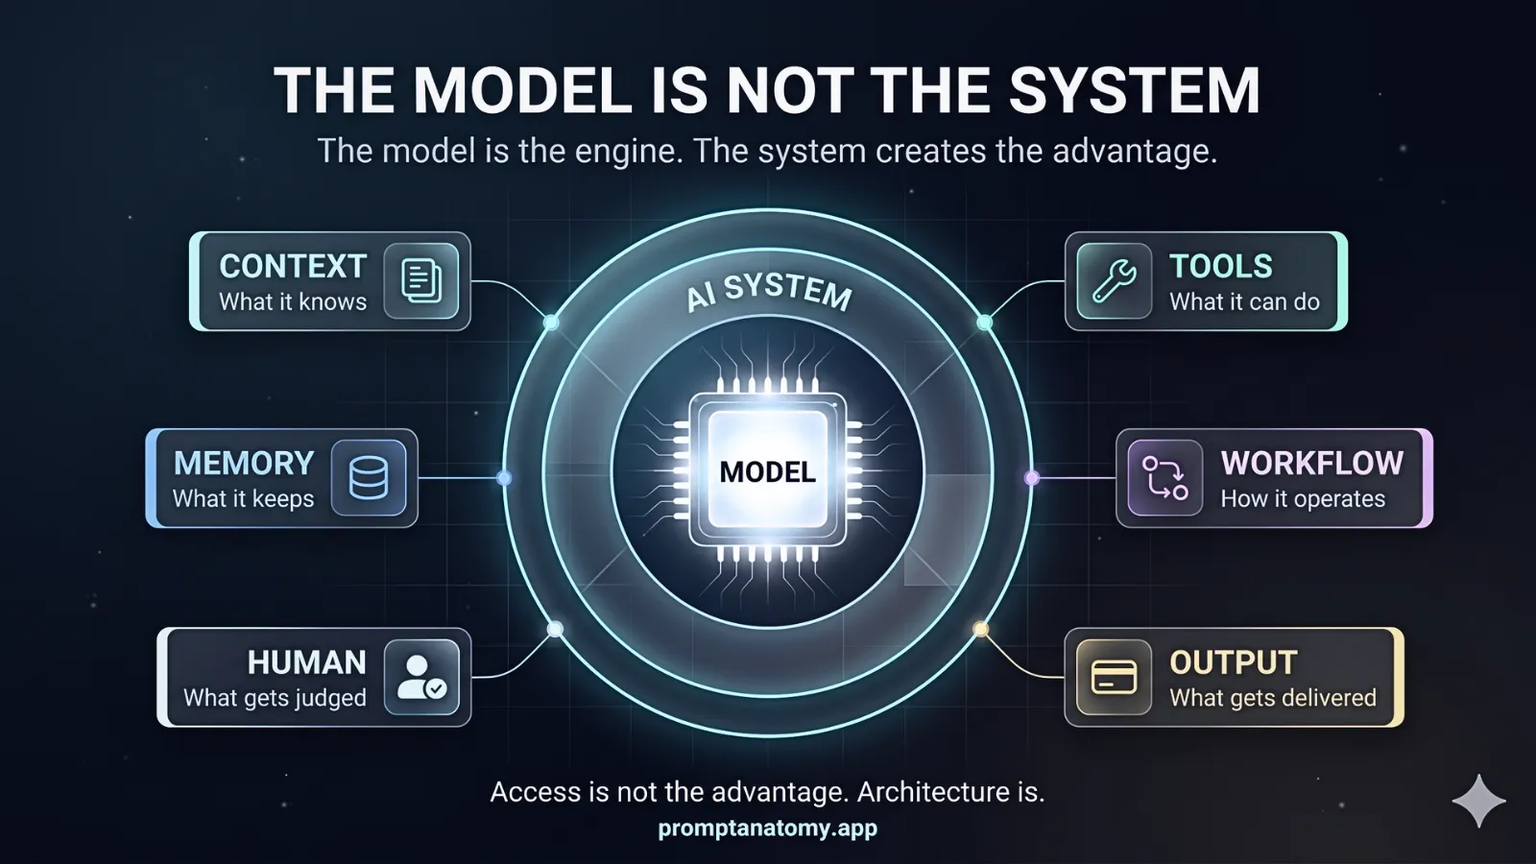
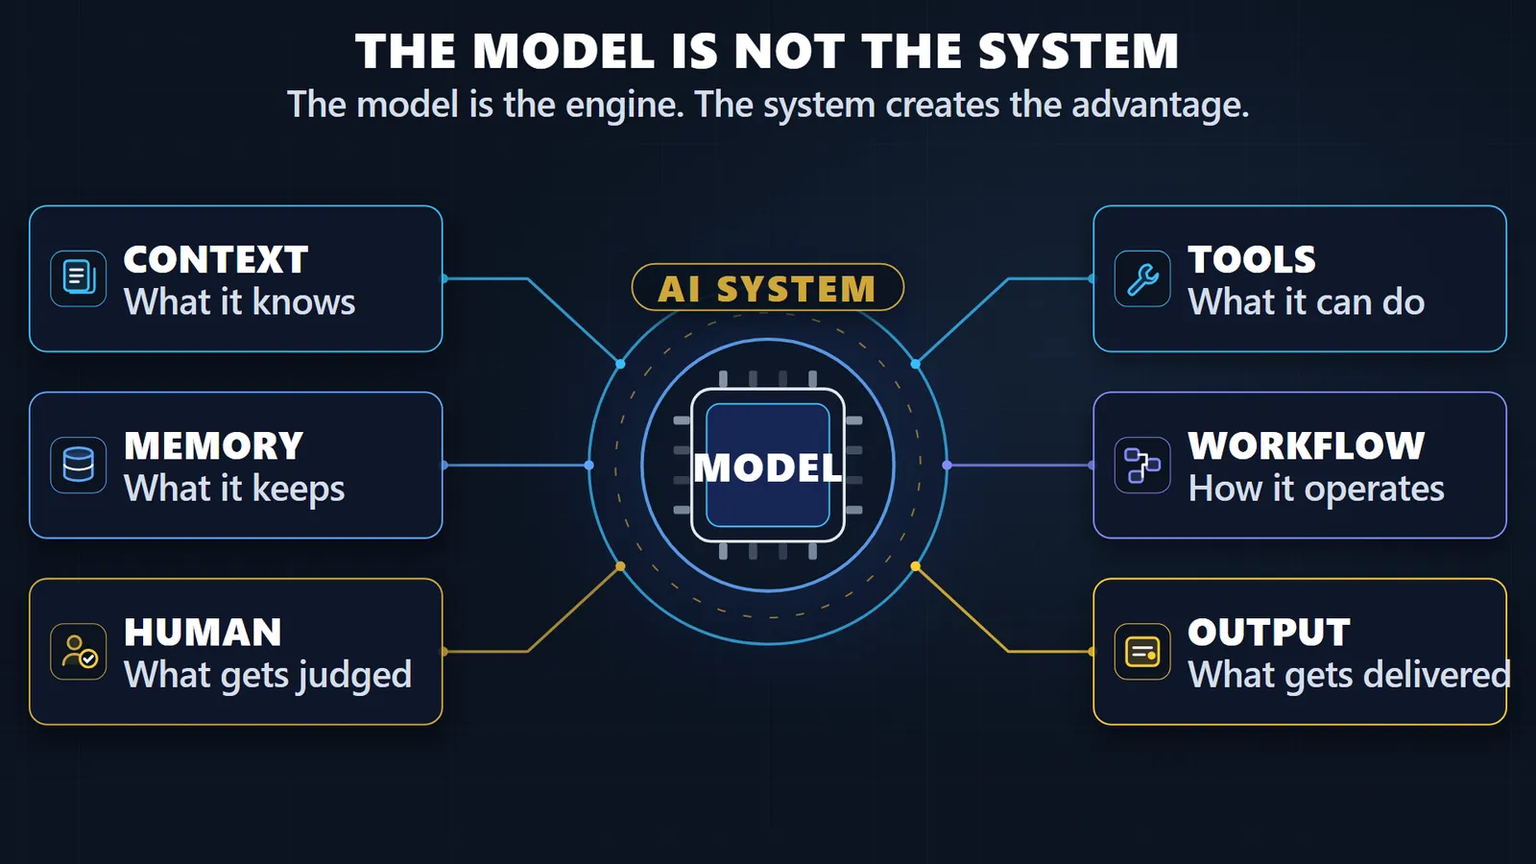
Align the flagship framework with the six boxes around the model so the page, social card, and citation stop teaching the old map.

diff --git a/theme/promptanatomy/templates/partials/style_guide.html b/theme/promptanatomy/templates/partials/style_guide.html
@@ -160,7 +160,7 @@
 
     <div class="grid grid--2 grid--start-here">
 
-      {{ path_card('The Model Is Not the System', 'Teams fail when chat is the product. Map the system around the model—workflow, context, evaluation, and governance.', '#', 1, icon='framework', card_id='sg-path-1') }}
+      {{ path_card('The Model Is Not the System', 'Teams fail when chat is the product. The model is the engine; context, memory, human judgment, tools, workflow, and output create the advantage.', '#', 1, icon='framework', card_id='sg-path-1') }}
 
       {{ path_card('Context Architecture', 'Define what models see, when, and why—with a context spec your team can implement.', '#', 2, icon='framework', card_id='sg-path-2') }}
 
@@ -303,7 +303,7 @@
     {{ section_heading('Featured card', 'Style guide reference for card--featured — not rendered on the homepage (pass 2).', 'sg-featured-card-heading') }}
 
     {% set sg_cat = namespace(name='Framework', url='topics/framework/') %}
-    {% set sg_featured = namespace(title='The Model Is Not the System', summary='Teams fail when chat is the product. This framework maps the system around the model—workflow, context, evaluation, and governance.', url='articles/the-model-is-not-the-system/', hero_image='images/articles/the-model-is-not-the-system/hero.png', category=sg_cat, reading_time='8 min read', date=none, modified=none) %}
+    {% set sg_featured = namespace(title='The Model Is Not the System', summary='Teams fail when chat is the product. The model is the engine; context, memory, human judgment, tools, workflow, and output create the advantage.', url='articles/the-model-is-not-the-system/', hero_image='images/articles/the-model-is-not-the-system/hero.png', category=sg_cat, reading_time='8 min read', date=none, modified=none) %}
 
     <article class="card card--featured">
 

diff --git a/scripts/validate_satori_manifest.py b/scripts/validate_satori_manifest.py
@@ -110,7 +110,7 @@ def _og_source(row: dict) -> str | None:
 
 
 def _is_manual_og_row(row: dict) -> bool:
-    if row.get("manual") is True:
+    if row.get("manual") is True and not row.get("satori_og"):
         return True
     og_src = row.get("og_source")
     if og_src and not str(og_src).replace("\\", "/").startswith("Satori/"):
@@ -148,13 +148,32 @@ def _validate_manual_row(row: dict, errors: list[str], warnings: list[str]) -> N
         warnings.append(
             f"{row_id}: source and og_source share one operator master (intentional)"
         )
-    if "og" in (row.get("usage") or []) and row.get("og_source"):
+    usage = row.get("usage") or []
+    if (
+        row.get("manual")
+        and "og" in usage
+        and not row.get("og_source")
+        and not row.get("satori_og")
+    ):
+        errors.append(
+            f"{row_id}: manual hero with usage og needs og_source or satori_og: true"
+        )
+    if "og" in usage and row.get("og_source"):
         og_master = MASTERS / Path(str(row["og_source"]).replace("\\", "/"))
         if not og_master.is_file():
             errors.append(
                 f"{row_id}: operator OG master not found at "
                 f"data/01_illustrations/{row['og_source']}"
             )
+    if row.get("satori_og") and "og" in usage and row.get("slug"):
+        og_src = _og_source(row)
+        if og_src:
+            og_master = MASTERS / Path(og_src.replace("\\", "/"))
+            if not og_master.is_file():
+                errors.append(
+                    f"{row_id}: OG master not found at data/01_illustrations/{og_src} "
+                    f"(run npm run build:satori)"
+                )
 
 
 def _validate_satori_row(row: dict, errors: list[str]) -> None:
@@ -219,7 +238,7 @@ def main() -> int:
 
     for row in manifest.get("illustrations") or []:
         if row.get("generator") != "satori":
-            if _is_manual_og_row(row):
+            if row.get("manual") or _is_manual_og_row(row):
                 _validate_manual_row(row, errors, warnings)
             elif "og" in (row.get("usage") or []) and row.get("slug"):
                 og_src = _og_source(row)

diff --git a/content/articles/the-model-is-not-the-system.md b/content/articles/the-model-is-not-the-system.md
@@ -5,61 +5,81 @@ category: Framework
 content_tier: pillar
 date: 2024-01-06
 faq:
-- answer: No. The model generates text; durable value comes from workflow, context
-    architecture, evaluation, and governance wrapped around it.
+- answer: No. The model is the engine. The system around it is context, memory,
+    human judgment, tools, workflow, and output.
   question: Is the language model the whole AI system?
-- answer: Teams skip shared context, review gates, and ownership—so outputs are inconsistent,
-    non-reproducible, and hard to audit under real compliance pressure.
+- answer: Teams leave context, memory, the human gate, tools, workflow, or output unnamed,
+    so a draft cannot be reproduced or signed.
   question: Why do chat-only AI pilots fail in operations?
-- answer: Name one workflow with a metric, pair ops with IT for context and evaluation,
-    pause new tool purchases until that workflow is documented, and run a pilot with
-    pass/fail criteria.
+- answer: Name one workflow with a metric, pair ops with IT so context, memory,
+    tools, and the human gate are written down, pause new tool purchases until that
+    workflow is documented, and run a pilot with pass/fail criteria.
   question: What should we build in the first 30 days?
 featured: true
-hero_caption: 'Figure: the model sits inside workflow, context, tools, memory, human
-  review, and governed output—not the other way around.'
+hero_caption: 'Figure: the model is the engine inside the system—context, memory,
+  human judgment, tools, workflow, and output.'
 hero_image: images/articles/the-model-is-not-the-system/hero.png
-key_takeaway: A language model is one component. Durable value comes from workflow,
-  context, evaluation, and governance around it.
-modified: 2024-04-06
+key_takeaway: A language model is the engine. The system around it—context, memory,
+  human judgment, tools, workflow, and output—creates the advantage.
+modified: 2026-10-16
 reading_time: 8 min read
 slug: the-model-is-not-the-system
 status: published
-summary: Teams fail when chat is the product. This framework maps the system around
-  the model—workflow, context, evaluation, and governance.
+summary: Teams fail when chat is the product. The model is the engine; context,
+  memory, human judgment, tools, workflow, and output create the advantage.
 tags:
 - framework
 - governance
 title: The Model Is Not the System
 ---
 
-Companies rarely fail at AI because the model is weak. They fail because the **system around the model**—workflow, context, evaluation, and governance—is undefined. Executives see fast demos in a chat window and assume the interface is the product. Operations then inherit inconsistent outputs, duplicate tools, and reviews that start only after a customer or regulator notices a problem.
+Companies rarely fail at AI because the model is weak. They fail because the **system around the model** is undefined. The figure puts the model at the center as the engine. Six parts create the advantage: context, memory, human judgment, tools, workflow, and output. Executives see fast demos in a chat window and assume the interface is the product. Operations then inherit inconsistent outputs, duplicate tools, and reviews that start only after a customer or regulator notices a problem.
 
-Chat-only AI feels like progress because the first draft is instant. That speed hides what production actually requires: known inputs, repeatable steps, measurable quality, and named owners when something goes wrong. Without that wrapper, every “successful” pilot is a one-off performance—not an implementation discipline your org can run next quarter.
+Chat-only AI feels like progress because the first draft is instant. That speed hides what production actually requires: known inputs, a record of what was already decided, a person who can reject a draft, tools with one owner, repeatable steps, and an output someone will sign. Without that wrapper, every “successful” pilot is a one-off performance—not an implementation discipline your org can run next quarter.
 
-If your team is still debating which model to buy while nobody owns the workflow, you are optimizing the wrong layer. The sections below define what a system includes, what breaks when you skip it, and how to move from demo to a bounded pilot in thirty days. Key terms: [Glossary](/articles/prompt-anatomy-glossary/).
+If your team is still debating which model to buy while nobody owns those six parts, you are optimizing the wrong layer. The film below walks the same split as the figure. The sections after it define each box, what breaks when you skip one, and how to move from demo to a bounded pilot in thirty days. Key terms: [Glossary](/articles/prompt-anatomy-glossary/).
+
+<figure class="video-embed">
+  <iframe
+    src="https://www.youtube-nocookie.com/embed/2bjr6CMt46c"
+    title="Prompt Anatomy 2: The Model Is Not The System"
+    loading="lazy"
+    referrerpolicy="strict-origin-when-cross-origin"
+    allow="encrypted-media; picture-in-picture; fullscreen"
+    allowfullscreen>
+  </iframe>
+  <figcaption><em>Prompt Anatomy 2: The Model Is Not The System</em>. The model is the engine. The system creates the advantage.</figcaption>
+</figure>
+
+Use the six boxes as the design record. A pilot that cannot name all six is still a chat demo.
 
 ## The model is one component
 
-A language model generates text from patterns in data. It does not own your process, your data boundaries, or your quality bar. It does not know which CRM record is authoritative, which clause Legal approved last month, or which pricing tier applies to a given region unless you **engineer context** and **enforce workflow** around the call.
+A language model generates text from patterns in data. It does not own your process, your data boundaries, or your quality bar. Those live in the six boxes around the call: what the model may know, what the system keeps, who judges the draft, which tools may act, how the work moves, and what actually gets delivered.
 
 Treating the chat window as the product trains the organization to equate access with advantage. Everyone gets the same model; differentiation comes from how you scope tasks, attach approved context, review outputs, and log changes. When teams skip that layer, they get impressive drafts and fragile operations—exactly the pattern described in [10 Signs Your Company Is Vibe Prompting](/articles/10-signs-your-company-is-vibe-prompting/).
 
-**Anti-pattern:** “We rolled out copilots; adoption is high, so we are done.” High adoption without a defined outcome, evaluation set, and owner is activity, not a system. **Better question:** For our highest-risk workflow, what must be true before a model output reaches a customer or regulator?
+**Anti-pattern:** “We rolled out copilots; adoption is high, so we are done.” High adoption without the six boxes named is activity, not a system. **Better question:** For our highest-risk workflow, which box is missing before a model output reaches a customer or regulator?
 
 ## What a system includes
 
-The hero diagram shows the model at the center of a larger design. In practice, durable implementations combine five layers that must work together—not five tools purchased separately.
+The hero diagram shows the model at the center of a larger design. The six boxes are the system. They have to work together—not six tools purchased separately.
 
-**Workflow** is the sequence humans already expect: intake, draft, review, handoff, archive. AI steps belong at named points in that sequence, with clear entry criteria (what triggers automation) and exit criteria (what must be true before the next step). If the workflow is implicit, the model will invent one—and it will not match how Legal, Sales, or Support actually work.
+**Context — what it knows.** Document scope, freshness, and tags such as `approved` versus `draft`. The model does not know which CRM record is authoritative, which clause Legal approved last month, or which pricing tier applies unless this box is engineered. Poor context is the main driver of confident wrong answers; [What Is Context Architecture](/articles/what-is-context-architecture/) goes deeper on layering and retrieval choices.
 
-**Context architecture** defines what the model may see, when, and why. That includes document scope (playbooks, tickets, policies), freshness rules, and tags such as `approved` versus `draft`. Poor context design is the main driver of confident wrong answers; [What Is Context Architecture](/articles/what-is-context-architecture/) goes deeper on layering and retrieval choices.
+**Memory — what it keeps.** What persists between runs: approved decisions, the clause version that was used, and the record of what was sent. Without it, Support cannot reproduce a strong answer from last week, and every session starts from a blank chat.
 
-**Evaluation** is how you know an output is good enough before it ships. That means held-out test cases, pass/fail checks on high-risk fields (pricing, compliance clauses, PII), and regression runs when prompts or models change. [Evaluation Hooks for AI Workflows](/articles/evaluation-hooks-for-ai-workflows/) describes where to attach those checks without slowing every request.
+**Human — what gets judged.** A named person judges the draft before it leaves the building. Evaluation is how they judge: held-out cases and pass/fail checks on pricing, clauses, and PII. [Evaluation Hooks for AI Workflows](/articles/evaluation-hooks-for-ai-workflows/) describes where to attach those checks without slowing every request.
 
-**Governance** names who may change prompts, tools, data access, and production configuration—and how changes are reviewed. Without governance, “quick fixes” in one team’s chat thread become everyone’s undeclared policy.
+**Tools — what it can do.** The model does not write to the CRM, search the clause library, or send the proposal. Tools do. Three overlapping integrations on the same field, with no single owner, are a tools failure—not a model failure.
 
-Together, these layers turn access into an operable capability. The model remains one component inside them. The same split applies outside enterprise AI—a Telegram mini app's Web App renders frames while a hosted API owns scores ([Telegram Game Stack](/articles/how-to-build-a-telegram-game-stack/)).
+**Workflow — how it operates.** The sequence humans already expect: intake, draft, review, handoff, archive. AI steps belong at named points, with entry criteria (what triggers automation) and exit criteria (what must be true before the next step). If the workflow is implicit, the model invents one—and it will not match how Legal, Sales, or Support actually work.
+
+**Output — what gets delivered.** The artifact a customer, regulator, or colleague actually receives: the disclaimer, the clause, and the owner who signs it. Chat text is not this box. A governed send is.
+
+Ownership is split across the boxes. Marketing keeps prompt templates. Legal keeps policy context and the sign-off. IT keeps integrations and access logs.
+
+Together, these parts turn access into an operable capability. The model remains the engine inside them. The same split applies outside enterprise AI—a Telegram mini app's Web App renders frames while a hosted API owns scores ([Telegram Game Stack](/articles/how-to-build-a-telegram-game-stack/)).
 
 ## The cost of chat-only AI
 
@@ -67,41 +87,44 @@ A mid-size services firm rolled out copilots to sales and support in the same qu
 
 Then operations pain showed up in audit-shaped form. Legal found **inconsistent disclaimers** across regions—wording that sounded right in chat but did not match the approved clause library. Support could not **reproduce** strong answers from prior weeks when managers tried to train new hires; the best outcomes depended on who asked and which sidebar tools they used. IT discovered **three overlapping integrations** writing to the same CRM fields, with no single owner for conflict resolution.
 
-The language model was adequate throughout. The missing **system** was shared context (what is allowed into the prompt), review gates (who signs off before send), and ownership (who fixes drift when models or tools change). Pilot spend continued, but leadership could not answer a basic question: *What is our pass rate on the workflows that matter?*
+The language model was adequate throughout. The missing **system** was context (what is allowed into the prompt), memory (what can be reproduced), a human who judges the draft, tools with one owner, a workflow with exit criteria, and an output someone signs. Pilot spend continued, but leadership could not answer a basic question: *What is our pass rate on the workflows that matter?*
 
 That gap is expensive in ways spreadsheets undercount: rework hours, delayed deals, compliance remediation, and loss of trust from internal teams who stop sharing what actually works. Chat-only AI maximizes visible speed and minimizes accountable design.
 
 ## Worked example: proposal support
 
-The table below is a compact design record for one workflow—RFP and proposal first drafts—not a slide checklist. Use it as a template for how layers align to a single measurable outcome.
+The table below is a compact design record for one workflow—RFP and proposal first drafts—not a slide checklist. Each row is one box from the figure.
 
-| Layer | Design choice |
-|-------|----------------|
-| Outcome | First-draft RFP responses in 48 hours, reviewed before send |
-| Workflow | Intake → approved snippets → model draft → human edit → compliance sign-off |
+| Part | Design choice |
+|------|----------------|
 | Context | Indexed playbooks and past wins tagged `approved` only |
-| Evaluation | Held-out RFP set; fail on wrong pricing tier or missing clause |
-| Governance | Marketing owns prompts; Legal owns policy context; IT owns integrations |
-
-**Outcome.** The business cares about cycle time *and* error rate, not tokens generated. Forty-eight hours with review before send forces the workflow to include humans at the right step—not as an afterthought when someone panics.
-
-**Workflow.** Intake captures opportunity metadata; only then does the model see approved snippets. Human edit is mandatory; compliance sign-off is a hard gate for external send. Skipping a step invalidates the audit trail.
+| Memory | The clause-library version and the last approved proposal for that account |
+| Human | Named reviewer and compliance sign-off before send; rerun the held-out set and fail on wrong pricing tier or missing clause |
+| Tools | Snippet retrieval and CRM write; IT owns integrations |
+| Workflow | Intake → approved snippets → model draft → human edit → compliance sign-off |
+| Output | First-draft RFP response in 48 hours, reviewed before send |
 
 **Context.** “Indexed playbooks and past wins tagged `approved` only” prevents the model from citing draft or informal wins that Legal never cleared. That single rule removes a common source of plausible-but-wrong proposals.
 
-**Evaluation.** A held-out RFP set with explicit fail conditions (wrong tier, missing clause) turns quality into a repeatable test. When the model or prompt changes, you rerun the set before promoting to production.
+**Memory.** The clause version and the last approved proposal have to survive the session. Otherwise the next draft cannot show what changed, and training a new hire means reconstructing a chat.
 
-**Governance.** Split ownership avoids the fantasy that “IT owns AI.” Marketing maintains prompt templates; Legal maintains policy context; IT maintains integrations and access logs. When something breaks, each owner knows their patch surface.
+**Human.** A named reviewer signs off before the draft leaves. The held-out RFP set, with explicit fail conditions (wrong tier, missing clause), is the test that reviewer reruns when the model or prompt changes.
+
+**Tools.** Retrieval and the CRM write are tools, not model features. IT maintains integrations and access logs. When something breaks, that owner knows the patch surface.
+
+**Workflow.** Intake captures opportunity metadata; only then does the model see approved snippets. Human edit is mandatory; compliance sign-off is a hard gate for external send. Skipping a step invalidates the audit trail.
+
+**Output.** The business cares about cycle time *and* error rate, not tokens generated. Forty-eight hours with review before send is the delivered artifact—not the chat window that produced a draft.
 
 If you are designing agent-style automation next, carry the same discipline into tool boundaries and escalation—[How to Design an AI Agent Workflow](/articles/how-to-design-an-ai-agent-workflow/) maps business tasks to agent-ready processes.
 
 ## First 30 days
 
-The goal of the first month is not more tools. It is one workflow documented end to end, with metrics and pass/fail criteria you can defend in a steering meeting.
+The goal of the first month is not more tools. It is one workflow documented end to end—all six boxes named—with metrics and pass/fail criteria you can defend in a steering meeting.
 
 1. **Name one workflow with a clear metric—not “use AI more.”** Example: “Reduce median time from RFP intake to compliant first draft to 48 hours, with fewer than 2% clause errors on a held-out set.” Without a metric, pilots become demos that cannot be compared week to week. **Failure mode:** picking the flashiest use case instead of the one with measurable pain. **Owner:** operations lead with line-of-business sponsor.
 
-2. **Pair an ops owner with IT for context and evaluation.** Ops defines steps and sign-offs; IT implements retrieval boundaries, logging, and test harnesses. **Failure mode:** IT ships integrations before ops writes the workflow—integrations encode chaos. **Owner:** joint working session weekly until the pilot checklist is green.
+2. **Pair an ops owner with IT for context, memory, tools, and the human gate.** Ops defines steps and sign-offs; IT implements retrieval boundaries, logging, and test harnesses. **Failure mode:** IT ships integrations before ops writes the workflow—integrations encode chaos. **Owner:** joint working session weekly until the pilot checklist is green.
 
 3. **Pause new tool purchases until that workflow is documented end to end.** Tool sprawl is a symptom of missing system design. Document inputs, outputs, reviewers, and data classes first; then buy or enable tools that fit the map. **Failure mode:** buying another copilot to “fix” inconsistency created by the last three. **Owner:** CIO or transformation lead enforces the pause with executive backing.
 

diff --git a/content/articles/five-levels-of-ai-control.md b/content/articles/five-levels-of-ai-control.md
@@ -69,4 +69,4 @@ Use this table in steering and risk forums — not to shame teams, but to align 
 
 ## Go deeper
 
-The ladder is a visual primer. Implementation lives in [Grounding AI Outputs](/articles/grounding-ai-outputs/), [The Model Is Not the System](/articles/the-model-is-not-the-system/) — workflow, context, evaluation, and governance around the model — and in [AI Governance Roles and Ownership](/articles/ai-governance-roles-and-ownership/) when more than one team touches the same workflow. For what comes after basic control, see [What Actually Scales AI Beyond Chat Basics](/articles/what-scales-ai-beyond-basics/) before you add agents and tools to an unstable base.
+The ladder is a visual primer. Implementation lives in [Grounding AI Outputs](/articles/grounding-ai-outputs/), [The Model Is Not the System](/articles/the-model-is-not-the-system/) — context, memory, human judgment, tools, workflow, and output around the model — and in [AI Governance Roles and Ownership](/articles/ai-governance-roles-and-ownership/) when more than one team touches the same workflow. For what comes after basic control, see [What Actually Scales AI Beyond Chat Basics](/articles/what-scales-ai-beyond-basics/) before you add agents and tools to an unstable base.

diff --git a/content/articles/prompt-anatomy-foundations.md b/content/articles/prompt-anatomy-foundations.md
@@ -4,7 +4,7 @@ body_locked: true
 category: Framework
 content_tier: nav
 date: 2024-01-28
-modified: 2026-09-10
+modified: 2026-10-16
 faq:
 - answer: Start with one business outcome and workflow, then context architecture,
     then model steps—with evaluation and governance before scaling tools.
@@ -51,7 +51,7 @@ Business outcome
         → Evaluation (pass/fail before scale)
           → Governance (who may change what)
 ```
-Deep dive: [The Model Is Not the System](/articles/the-model-is-not-the-system/). Context layer: [What Is Context Architecture?](/articles/what-is-context-architecture/). Diagnose unstructured use: [10 Signs Your Company Is Vibe Prompting](/articles/10-signs-your-company-is-vibe-prompting/).
+The stack above is the reading order. [The Model Is Not the System](/articles/the-model-is-not-the-system/) records one workflow as context, memory, human judgment, tools, workflow, and output. Context layer: [What Is Context Architecture?](/articles/what-is-context-architecture/). Diagnose unstructured use: [10 Signs Your Company Is Vibe Prompting](/articles/10-signs-your-company-is-vibe-prompting/).
 
 ## Where to go next
 
